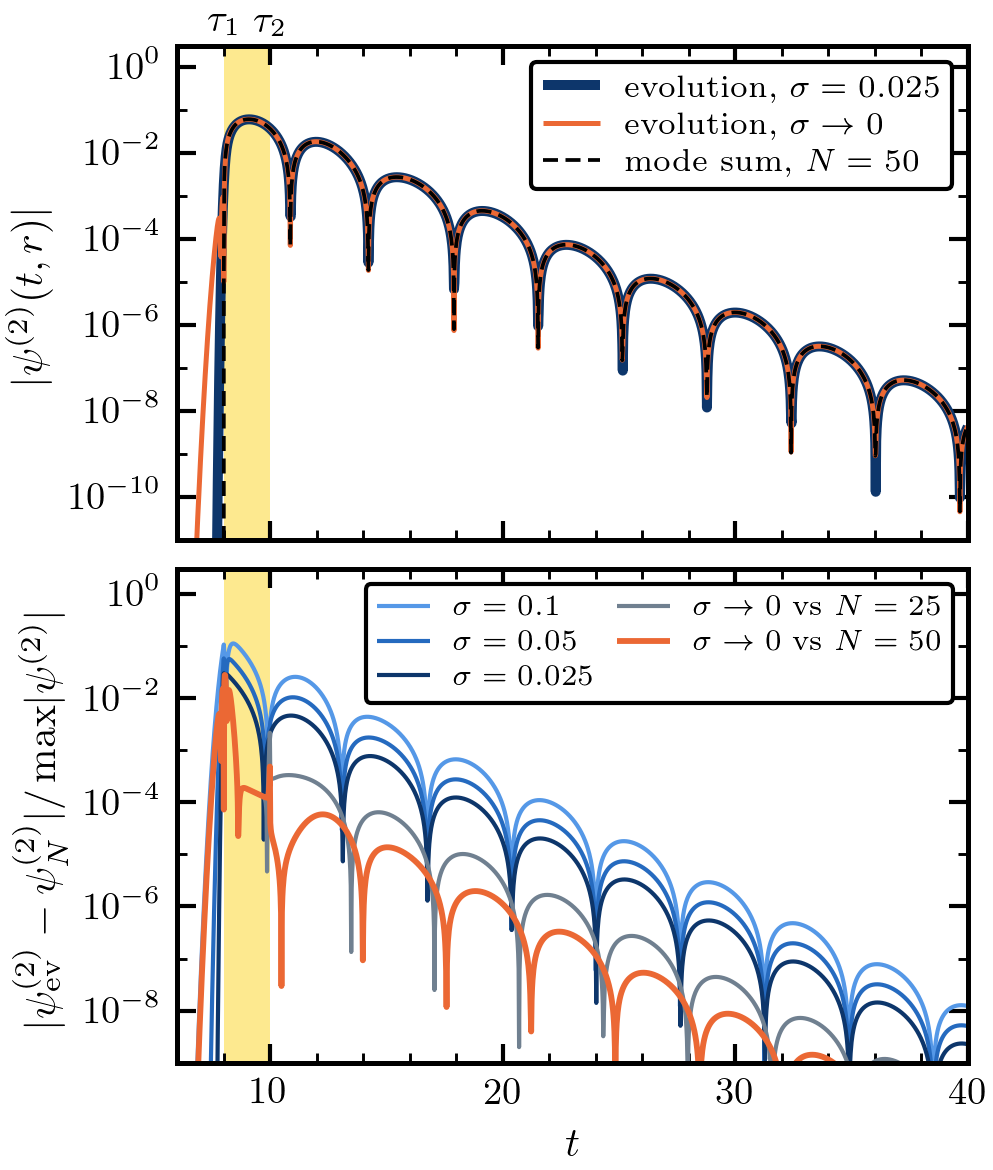
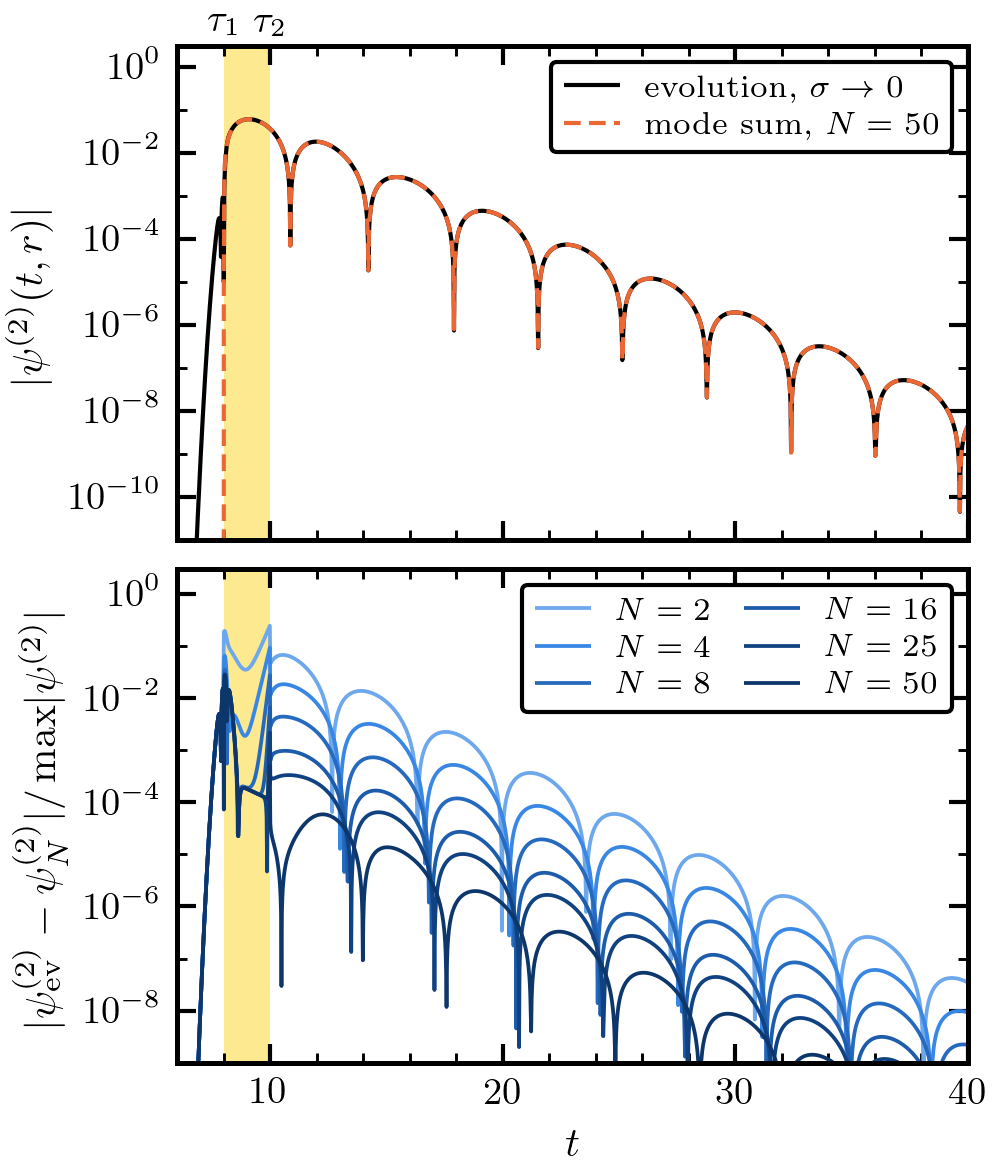
quadratic-green: F2, F3 against the number of modes, sigma -> 0 explained

diff --git a/projects/quadratic-green/results.md b/projects/quadratic-green/results.md
@@ -12,36 +12,38 @@ Geometry A ($r_S = -1$, $r_{NL} = -2.5$, observer $r = 4$), $\alpha = V_0 = a = 
 
 **Reproduce.** `tasks/t02-time-domain/S5/money_plots.py` after `S5/terms.py 50 4` (terms and the family split).
 
-### F3 — Does the evolved second-order field converge to the analytic solution? (unverified)
+### F3 — Does the evolved second-order field converge to the analytic solution as modes are added? (unverified)
 
-<figure><a href="figs/f3-second-order.png"><img src="figs/f3-second-order.png" alt="Second-order field at r = 4: evolution and analytic sum, and their residual for each Gaussian width and after extrapolation"></a><figcaption>Yes: after extrapolating the Gaussian width to zero, the evolution matches the $N = 50$ mode sum to $6\times10^{-5}$ of the peak after $\tau_2$.</figcaption></figure>
+<figure><a href="figs/f3-second-order.png"><img src="figs/f3-second-order.png" alt="Second-order field at r = 4: evolution and analytic sum, and their residual for N = 2 to 50"></a><figcaption>Yes: after $\tau_2$ the residual falls like a power of $N$, to $6\times10^{-5}$ of the peak at $N = 50$.</figcaption></figure>
 
-Geometry A, both deltas replaced by unit Gaussians of width $\sigma$; 4th-order finite differences + RK4, $\Delta r = \sigma/16$. Top: $\lvert\psi^{(2)}(t, 4)\rvert$; navy, evolution at $\sigma = 0.025$; coral, the extrapolation $u_0 = (8u_{0.025} - 6u_{0.05} + u_{0.1})/3$; black dashed, the analytic sum at $N = 50$. Bottom: residual over the peak; blue, each $\sigma$; grey, $u_0$ against $N = 25$; coral, $u_0$ against $N = 50$. Yellow: window II.
+Geometry A ($r_S = -1$, $r_{NL} = -2.5$, observer $r = 4$). Both deltas are replaced by unit Gaussians of width $\sigma$; the evolution runs at $\sigma = 0.1, 0.05, 0.025$ and is extrapolated to $\sigma \to 0$ (below). Top: $\lvert\psi^{(2)}(t, 4)\rvert$; black, the evolution; coral dashed, the analytic three-window sum at $N = 50$. Bottom: their difference over the peak, for $N = 2, 4, 8, 16, 25, 50$ (light to dark). Yellow: window II.
+
+**The $\sigma \to 0$ limit.** A Gaussian of width $\sigma$ changes the field, at each $t$ away from the light-cone edges, by a power series in $\sigma$. For the linear field only even powers appear (the Gaussian is symmetric). At second order there is also a term linear in $\sigma$: the source squares $\psi^{(1)}$, and the square of a smoothed step is not the smoothed square. Its imprint is $c\,\sigma\,G(t - 1.5, 4 \vert r_{NL})$ to 0.3%, with $c \to -0.167$. With $u_\sigma = u_0 + a\sigma + b\sigma^2$ at three widths, $u_0 = (8u_{0.025} - 6u_{0.05} + u_{0.1})/3$ cancels both terms (Richardson extrapolation). Near the edges the series fails, which leaves the spikes at $\tau_{1,2}$.
 
 **Takeaway.**
 
-- The second-order regulator error is $O(\sigma)$, not $O(\sigma^2)$. The square of a smoothed step is not the smoothed square, so the source carries an extra impulse $\propto\sigma$ at the front of $\psi^{(1)}(t, r_{NL})$. Its late-time imprint is $c\,\sigma\,G(t - 1.5, 4 \vert r_{NL})$ to 0.3%, with $c \to -0.167$.
-- Outside $\lvert t - \tau_i\rvert < 0.5$ the extrapolated evolution agrees with the analytic solution at $N = 50$ to $7.2\times10^{-4}$ (window II), $5.9\times10^{-5}$ (window III), $1.4\times10^{-5}$ ($t \ge 15$) of the peak.
-- From $N = 25$ to $50$ the window-III residual drops 5.7×. At $N = 25$ the truncation of the mode sum set the error. In window II the two truncations agree to $10^{-8}$, so the $7\times10^{-4}$ left there comes from the evolution.
+- Outside $\lvert t - \tau_i\rvert < 0.5$, window III: $6.8\times10^{-2}$ ($N = 2$), $4.4\times10^{-3}$ (8), $9.8\times10^{-4}$ (16), $3.3\times10^{-4}$ (25), $5.9\times10^{-5}$ (50) of the peak, roughly $N^{-2.5}$. The linear sum converges exponentially ([F2](#results)); the second-order one only as a power.
+- Window II stays at $6$–$7\times10^{-4}$ from $N = 8$ on: there the evolution sets the level (in geometry B it is $1.1\times10^{-5}$).
+- Without the extrapolation the $O(\sigma)$ term hides the modes: the raw $\sigma = 0.025$ evolution stops at $4.6\times10^{-3}$.
 - Controls: dropping the window-II QNM term or the QQNMs gives $0.58$ and $0.19$.
 - An $N = 100$ run is under way; the figure will be updated.
 
-**Reproduce.** `tasks/t02-time-domain/S3/second_compare.py` (evolutions), `S5/terms.py 50 4`, `S5/metrics.py`, `S5/money_plots.py`.
+**Reproduce.** `tasks/t02-time-domain/S3/second_compare.py` (evolutions), `S5/terms.py 50 4`, `S5/metrics_byN.py`, `S5/money_plots.py`.
 
 ### F2 — Does the evolved linear Green's function match the mode sum at all times? (unverified)
 
-<figure><a href="figs/f2-linear.png"><img src="figs/f2-linear.png" alt="Linear Green's function: evolution and N = 100 mode sum, and the residual for four Gaussian widths"></a><figcaption>Yes: away from the light-cone edges the residual falls like $\sigma^2$, to $6\times10^{-5}$ of the peak at $\sigma = 0.025$.</figcaption></figure>
+<figure><a href="figs/f2-linear.png"><img src="figs/f2-linear.png" alt="Linear Green's function: evolution and N = 100 mode sum, and the residual for N = 1 to 100"></a><figcaption>Yes: the residual falls exponentially with $N$, to $10^{-10}$ of the peak after $\tau_2$ at $N = 32$.</figcaption></figure>
 
-Case 2: source $y = -2.5$, observer $x = -1$. Top: $\lvert G(t; x\vert y)\rvert$; navy, evolution at $\sigma = 0.025$; black dashed, the windowed mode sum at $N = 100$. Bottom: $\lvert G_\sigma - G_{N=100}\rvert$ over the peak, $\sigma = 0.2, 0.1, 0.05, 0.025$ (light to dark). Yellow: the window $1.5 < t < 3.5$ (zero-mode plateau plus Matsubara sums); after it, QNMs only.
+Case 2: source $y = -2.5$, observer $x = -1$. The evolution, at $\sigma = 0.1, 0.05, 0.025$, is extrapolated to $\sigma \to 0$ with $(64u_{0.025} - 20u_{0.05} + u_{0.1})/45$, which cancels the $\sigma^2$ and $\sigma^4$ terms ([F3](#results) explains the limit). Top: $\lvert G(t; x\vert y)\rvert$; black, the evolution; coral dashed, the windowed mode sum at $N = 100$. Bottom: their difference over the peak, for $N = 1, 2, 4, 8, 16, 32, 100$ (light to dark). Yellow: the window $1.5 < t < 3.5$ (zero-mode plateau plus Matsubara sums); after it, QNMs only.
 
 **Takeaway.**
 
-- Off the edges the residual is the Gaussian's second moment: $\propto\sigma^2$. Averaging the mode sum over the same Gaussian removes it (to $2.6\times10^{-7}$).
-- At $t = \tau_{1,2}$ the Green's function jumps; the evolution smooths the jump over a width $\sim\sigma$.
-- Adding modes at fixed $\sigma = 0.025$ lowers the residual from $0.3$ ($N = 1$) to the $\sigma^2$ floor; this holds also inside a long Matsubara window.
+- After $\tau_2$: $9\times10^{-2}$ ($N = 1$), $3.5\times10^{-3}$ (4), $1.2\times10^{-6}$ (16), $1.4\times10^{-10}$ (32). From $N = 32$ on the evolution's own error ($2\times10^{-9}$ inside the window) is the limit.
+- Without the extrapolation, the $\sigma^2$ term of the raw $\sigma = 0.025$ evolution stops the residual at $6\times10^{-5}$.
+- At $t = \tau_{1,2}$ the Green's function jumps; within a few $\sigma$ of a jump the expansion in $\sigma$ fails, which leaves the spikes.
 - Controls: dropping the zero-mode plateau, or flipping the sign of the initial data, gives $O(1)$.
 
-**Reproduce.** `tasks/t02-time-domain/S2/linear_compare.py`, `S2/linear_modes.py`, `S5/money_plots.py`.
+**Reproduce.** `tasks/t02-time-domain/S2/linear_compare.py` (evolutions), `S5/metrics_byN.py`, `S5/money_plots.py`.
 
 ### F1 — Is the analytical second-order solution correct? (unverified)
 

diff --git a/projects/quadratic-green/log.md b/projects/quadratic-green/log.md
@@ -6,6 +6,7 @@ Newest first. One entry per working session: what was done, what was learned, an
 - Linear field: the evolution matches the $N = 100$ mode sum at all times off the light-cone edges, with residual $\propto\sigma^2$ ([F2](#results)).
 - Second order: the regulator error is $O(\sigma)$, because the square of a smoothed step is not the smoothed square. Extrapolated in $\sigma$, the evolution matches the three-window solution ([F3](#results)).
 - What went wrong: the second-order mode sum was first truncated at $N = 25$ instead of the planned $50$ and $100$, for cost. At $N = 25$ the truncation, not the evolution, set the late-time error. $N = 50$ lowers it 5.7×; $N = 100$ is running.
+- Figures redone: the evolution enters extrapolated to $\sigma \to 0$, and the residual is shown against the mode sum at several $N$. The linear sum converges exponentially in $N$, the second-order one as a power, about $N^{-2.5}$ ([F2, F3](#results)).
 - The analytic field split by mode family: the families' jumps cancel, and the QQNMs fade twice as fast as the linear QNMs ([F4](#results)).
 
 ### 2026-10-01 — derivations checked; the analytical solution stands
